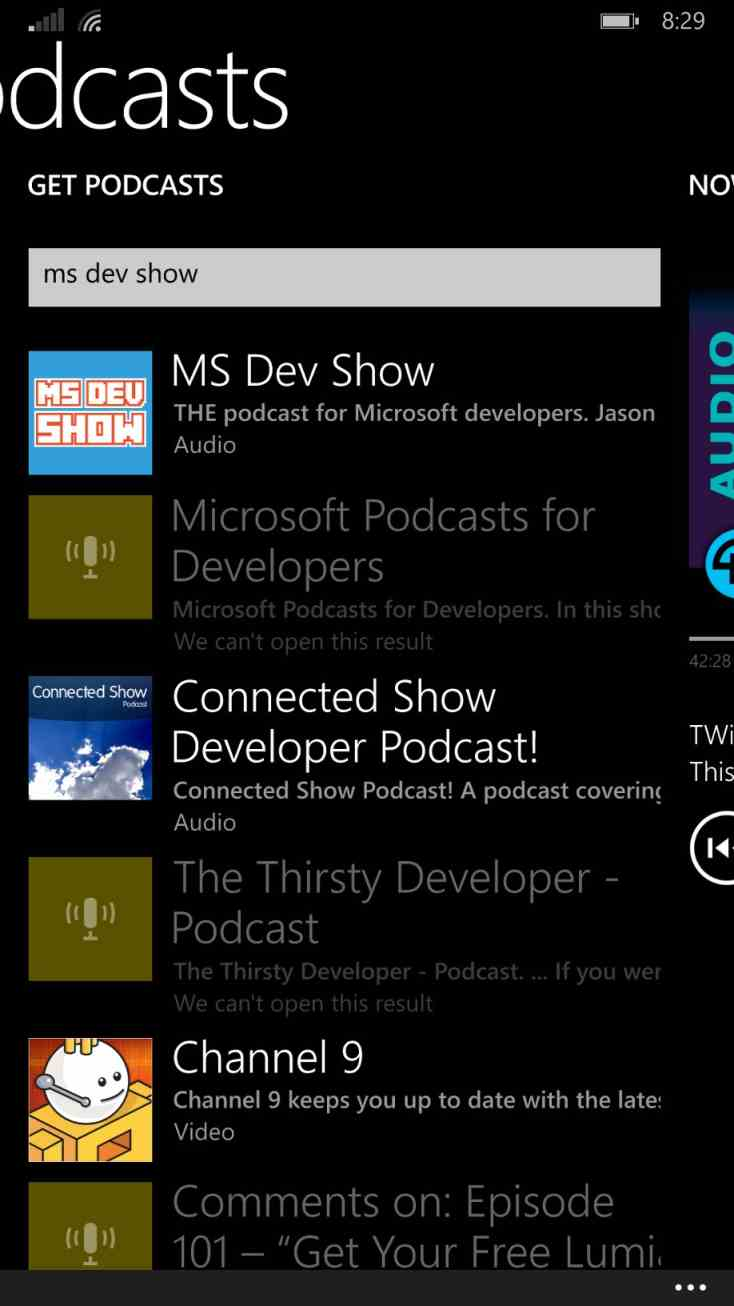
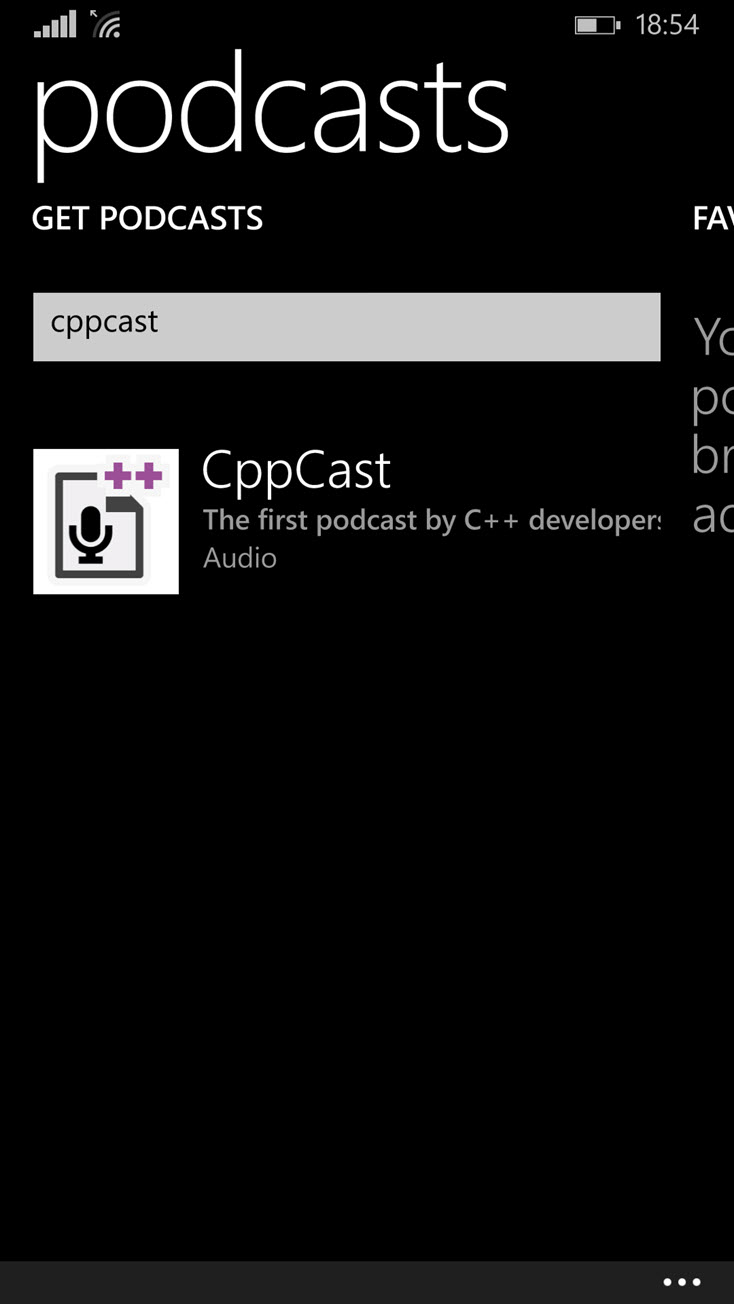
windows phone subscribe page is ready

diff --git a/src/render/subscribe-windows-phone/index.html.md b/src/render/subscribe-windows-phone/index.html.md
@@ -1,6 +1,6 @@
 ---
 layout: page
-title: Subscribing to the MS Dev Show on Windows Phone 8.1
+title: Subscribing to cppcast on Windows Phone 8.1
 enablePageComments: false 
 ---
 
